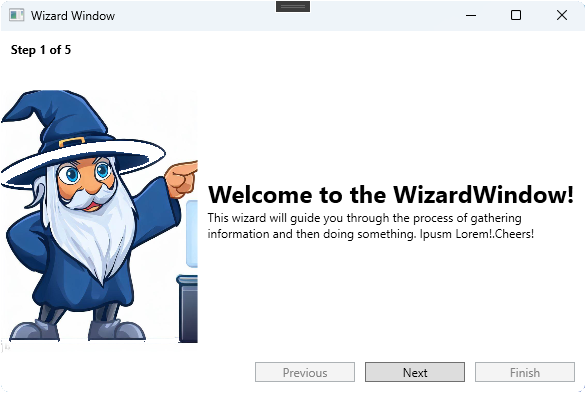
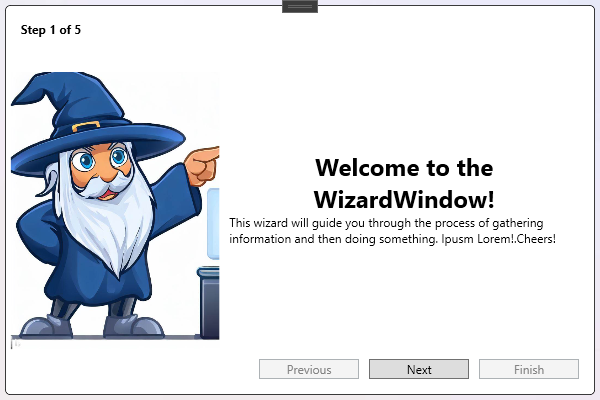
Added WizardWindow.md file and screens

Changed region(s): [[0.0, 0.0, 1.0, 1.0], [0.3072, 0.0, 0.4915, 0.0305]]

diff --git a/Jon.WPF.NetCore.UserControls.MostWanted/Windows/WizardWindow.xaml b/Jon.WPF.NetCore.UserControls.MostWanted/Windows/WizardWindow.xaml
@@ -8,62 +8,72 @@
     Title="Wizard Window"
     Width="600"
     Height="400"
+    AllowsTransparency="True"
+    Background="{x:Null}"
+    WindowStyle="None"
     mc:Ignorable="d">
+    <Border
+        Margin="5"
+        Padding="5"
+        Background="White"
+        BorderBrush="Black"
+        BorderThickness=".9"
+        CornerRadius="5" MouseLeftButtonDown="Border_MouseLeftButtonDown">
+        <Grid MouseLeftButtonDown="Grid_MouseLeftButtonDown">
+            <Grid.RowDefinitions>
+                <RowDefinition Height="Auto" />
+                <RowDefinition Height="*" />
+                <RowDefinition Height="Auto" />
+            </Grid.RowDefinitions>
+            <Grid.ColumnDefinitions>
+                <ColumnDefinition Width="Auto" />
+                <ColumnDefinition Width="*" />
+            </Grid.ColumnDefinitions>
+            <!--  Step Indicator  -->
+            <TextBlock
+                x:Name="StepIndicator"
+                Grid.Row="0"
+                Margin="10"
+                FontWeight="Bold"
+                Text="Step 1 of 3" />
 
-    <Grid>
-        <Grid.RowDefinitions>
-            <RowDefinition Height="Auto" />
-            <RowDefinition Height="*" />
-            <RowDefinition Height="Auto" />
-        </Grid.RowDefinitions>
-        <Grid.ColumnDefinitions>
-            <ColumnDefinition Width="Auto" />
-            <ColumnDefinition Width="*" />
-        </Grid.ColumnDefinitions>
-        <!--  Step Indicator  -->
-        <TextBlock
-            x:Name="StepIndicator"
-            Grid.Row="0"
-            Margin="10"
-            FontWeight="Bold"
-            Text="Step 1 of 3" />
+            <!--  Wizard Image  -->
+            <Image Grid.Row="1" Source="/WizardGuyTaller.png" />
 
-        <!--  Wizard Image  -->
-        <Image Grid.Row="1" Source="/WizardGuyTaller.png" />
+            <!--  Content Area  -->
+            <ContentControl
+                x:Name="ContentArea"
+                Grid.Row="1"
+                Grid.Column="1"
+                Margin="10"
+                Content="{Binding CurrentStepContent}" MouseLeftButtonDown="ContentArea_MouseLeftButtonDown" />
 
-        <!--  Content Area  -->
-        <ContentControl
-            x:Name="ContentArea"
-            Grid.Row="1"
-            Grid.Column="1"
-            Margin="10"
-            Content="{Binding CurrentStepContent}" />
+            <!--  Navigation Buttons  -->
+            <StackPanel
+                Grid.Row="2"
+                Grid.ColumnSpan="2"
+                Margin="10"
+                HorizontalAlignment="Right"
+                Orientation="Horizontal">
+                <Button
+                    x:Name="PreviousButton"
+                    Width="100"
+                    Margin="0,0,10,0"
+                    Click="PreviousButton_Click"
+                    Content="Previous" />
+                <Button
+                    x:Name="NextButton"
+                    Width="100"
+                    Margin="0,0,10,0"
+                    Click="NextButton_Click"
+                    Content="Next" />
+                <Button
+                    x:Name="FinishButton"
+                    Width="100"
+                    Click="FinishButton_Click"
+                    Content="Finish" />
+            </StackPanel>
 
-        <!--  Navigation Buttons  -->
-        <StackPanel
-            Grid.Row="2"
-            Grid.ColumnSpan="2"
-            Margin="10"
-            HorizontalAlignment="Right"
-            Orientation="Horizontal">
-            <Button
-                x:Name="PreviousButton"
-                Width="100"
-                Margin="0,0,10,0"
-                Click="PreviousButton_Click"
-                Content="Previous" />
-            <Button
-                x:Name="NextButton"
-                Width="100"
-                Margin="0,0,10,0"
-                Click="NextButton_Click"
-                Content="Next" />
-            <Button
-                x:Name="FinishButton"
-                Width="100"
-                Click="FinishButton_Click"
-                Content="Finish" />
-        </StackPanel>
-
-    </Grid>
+        </Grid>
+    </Border>
 </Window>

diff --git a/Jon.WPF.NetCore.UserControls.MostWanted/Windows/WizardWindow.xaml.cs b/Jon.WPF.NetCore.UserControls.MostWanted/Windows/WizardWindow.xaml.cs
@@ -120,6 +120,42 @@ namespace Jon.WPF.NetCore.UserControls.MostWanted.Windows
                 Close();
             }
         }
+
+        private void Grid_MouseLeftButtonDown(object sender, MouseButtonEventArgs e)
+        {
+            try
+            {
+                DragMove();
+            }
+            catch (Exception)
+            {
+
+            }
+        }
+
+        private void ContentArea_MouseLeftButtonDown(object sender, MouseButtonEventArgs e)
+        {
+            try
+            {
+                DragMove();
+            }
+            catch (Exception)
+            {
+
+            }
+        }
+
+        private void Border_MouseLeftButtonDown(object sender, MouseButtonEventArgs e)
+        {
+            try
+            {
+                DragMove();
+            }
+            catch (Exception)
+            {
+
+            }
+        }
     }
 }
 

diff --git a/Jon.WPF.NetCore.UserControls.MostWanted/Docs/WizardWindow.md b/Jon.WPF.NetCore.UserControls.MostWanted/Docs/WizardWindow.md
@@ -1,0 +1,113 @@
+
+# Wizard Control
+
+This project provides a customizable and easy-to-use WPF wizard control for creating step-by-step user interactions in your WPF applications. It comes with a set of pre-built views to handle common scenarios like gathering values, displaying confirmation screens, and performing actions with progress reporting.
+
+![Wizard Overview](WizardFirstScreen.png)
+
+## Table of Contents
+
+- [Installation](#installation)
+- [Usage](#usage)
+- [Built-in Views](#built-in-views)
+  - [WizardWindowWelcomeView](#wizardwindowwelcomeview)
+  - [GatherValuesView](#gathervaluesview)
+  - [PerformActionView](#performactionview)
+  - [PerformActionConditionalView](#performactionconditionalview)
+  - [ConfirmationView](#confirmationview)
+- [Custom Views](#custom-views)
+- [Contributing](#contributing)
+- [License](#license)
+
+## Installation
+
+_TODO: Provide instructions for installing the library/package if applicable._
+
+## Usage
+
+To create a new wizard, follow these steps:
+
+1. Create a new instance of the `WizardWindow` class.
+2. Create instances of the built-in views or your custom views inheriting from `StepBase`.
+3. Add the instances to the list of steps in the `WizardWindow`.
+4. Call the `ShowDialog()` method on the `WizardWindow` instance to display the wizard.
+
+Here's an example:
+
+```csharp
+var wizard = new WizardWindow(new List<StepBase>
+{
+    new WizardWindowWelcomeView("Welcome to the Most Wanted WPF Wizard!"),
+    // ... Add more steps here ...
+});
+
+wizard.ShowDialog();
+```
+
+## Built-in Views
+
+### WizardWindowWelcomeView
+
+This view is typically used as the first screen of the wizard. It displays a nicely formatted text to welcome users.
+
+![Wizard Overview](WizardFirstScreen.png)
+
+
+_TODO: Provide a code example of using WizardWindowWelcomeView._
+
+### GatherValuesView
+
+This view provides a dynamic form for gathering values from the user.
+
+![GatherValuesView](WizardScreen2.png)
+
+_TODO: Provide a code example of using GatherValuesView._
+
+### SelectOptionView
+
+This view provides a dynamic form for gathering values from the user.
+
+![GatherValuesView](WizardScreen4.png)
+
+_TODO: Provide a code example of using GatherValuesView._
+
+### PerformActionView
+
+This view allows you to perform an action with progress reporting. The progress bar and status message are updated in real-time as the operation progresses.
+
+![PerformActionView](WizardScreen5S.png)
+
+_TODO: Provide a code example of using PerformActionView._
+
+### PerformActionConditionalView
+
+This view extends the `PerformActionView` to include conditional logic for determining the next step based on the result of the action.
+
+![PerformActionConditionalView](WizardScreen5S.png)
+
+_TODO: Provide a code example of using PerformActionConditionalView._
+
+### ConfirmationView
+
+This view can be used as the last screen of the wizard to display a summary of the selected options before final confirmation.
+
+![ConfirmationView](WizardScreen5.png)
+
+_TODO: Provide a code example of using ConfirmationView._
+
+## Custom Views
+
+_TODO: Explain how users can create custom views by inheriting from StepBase._
+
+## Contributing
+
+Pull requests are welcome. For major changes, please open an issue first to discuss what you would like to change.
+
+## License
+
+[MIT](https://choosealicense.com/licenses/mit/)
+```
+
+You can customize the template according to your project requirements. Don't forget to replace the `_TODO` placeholders with the actual content and add the appropriate screenshots for each view.
+
+I hope this helps! Let me know if you have any questions or need further assistance.
